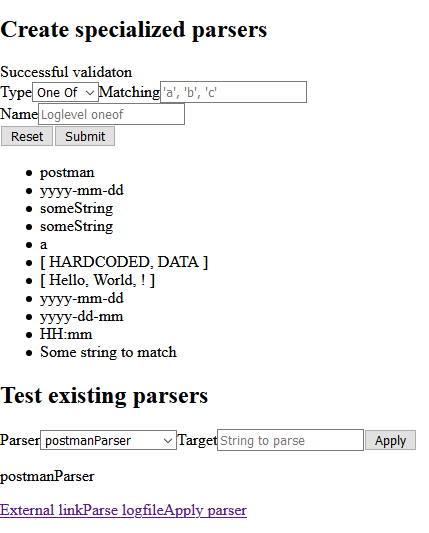
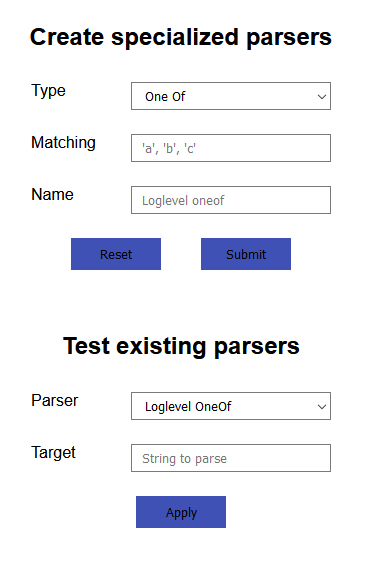
doc: update create parser docs (#7)

Changed region(s): [[0.0, 0.1201, 0.8707, 0.9906], [0.0, 0.03, 0.8707, 0.0901], [0.8417, 0.7805, 0.9868, 0.8705]]

diff --git a/parser-frontend/docs/01_home_create-parser/README.md b/parser-frontend/docs/01_home_create-parser/README.md
@@ -12,7 +12,7 @@ Currently the page looks like this.
 Now let's look at the different parts of the page.
 
 ## Create specialized parsers
-This section consists of two parts. In the first one you can create a parser.
+In this section you can create a parser that matches the string or pattern you give it.
 <br>
 You select a type of parser (via the dropdown) and the value or values it should match and give it a name. Then you can submit it and a parser will be created. Here a few examples to make this clearer.
 <br>
@@ -24,15 +24,13 @@ And if we wanted to create a parser matching a time format like this 'HH-MM' we 
 <br>
 ![Image of an example of how to create a time parser](./create_time_parser.PNG)
 
-The second section is for debugging purposes and lists the matching fields of all currently created parsers.
-<br>
-![Image of an example of how to create a loglevel parser](./current_matching_fields.PNG)
-
 ## Test existing parsers
 Since it would be helpful to test if a created parser actually works, this section allows you to select an existing parser by name via the dropdown. You can then provide a target string which the parser will attempt to parse. The result is then displayed as a string below the input fields.
 
-For example with out previously created time parser.
+For example with our previously created time parser.
+<br>
 ![Image of how to test our previously created time parser](./match_time.PNG)
 
 If we provide a string that is too long, it still works, as long as it can match the start.
+<br>
 ![Image of how to test our previously created time parser](./match_time_with_longer_string.PNG)
